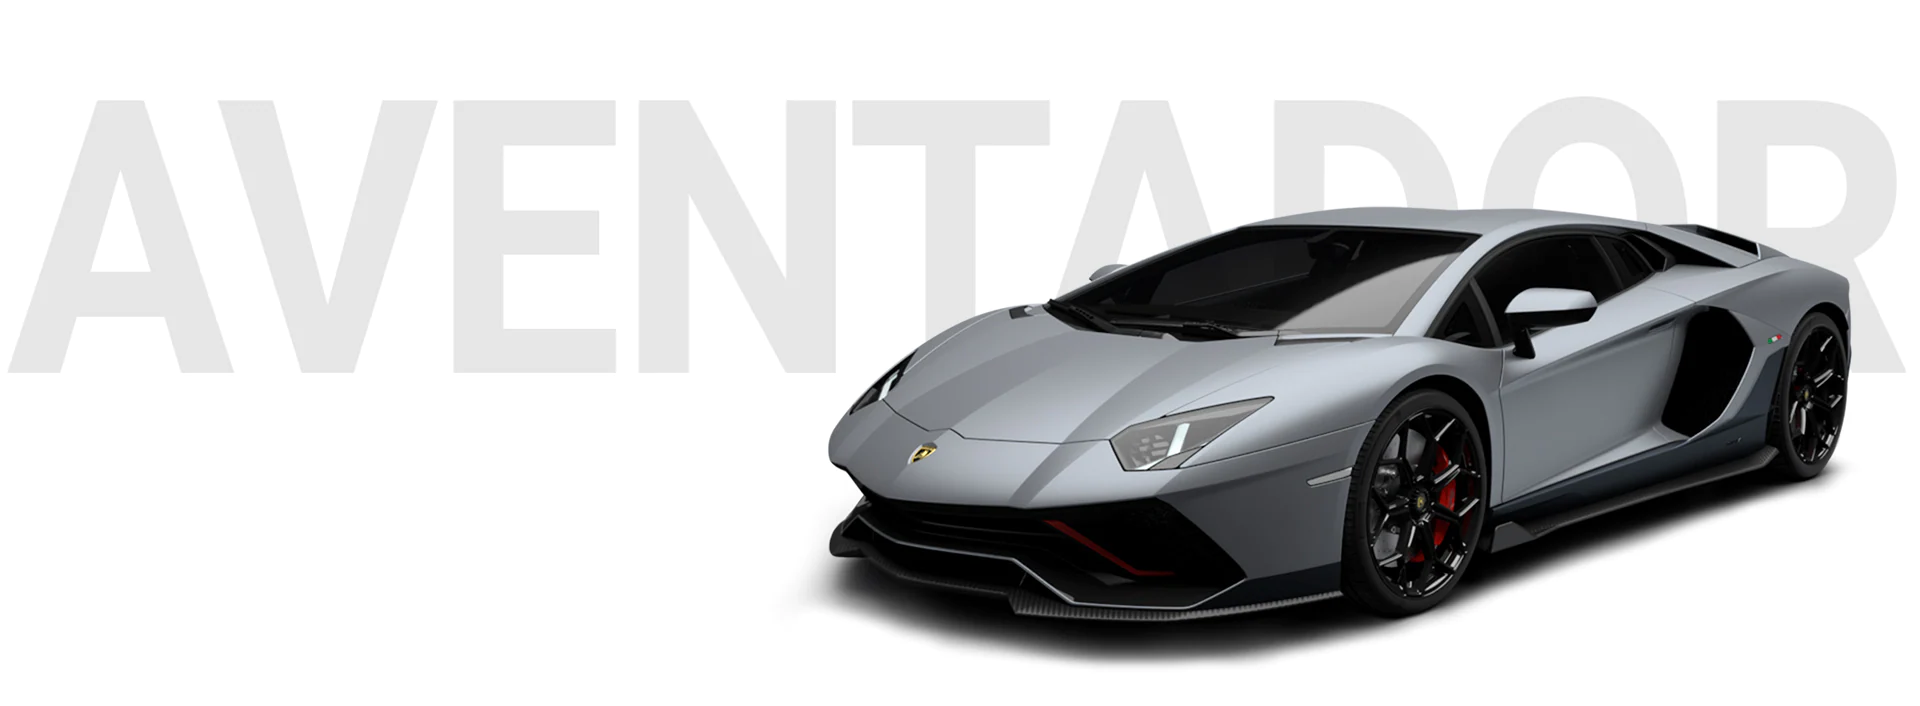
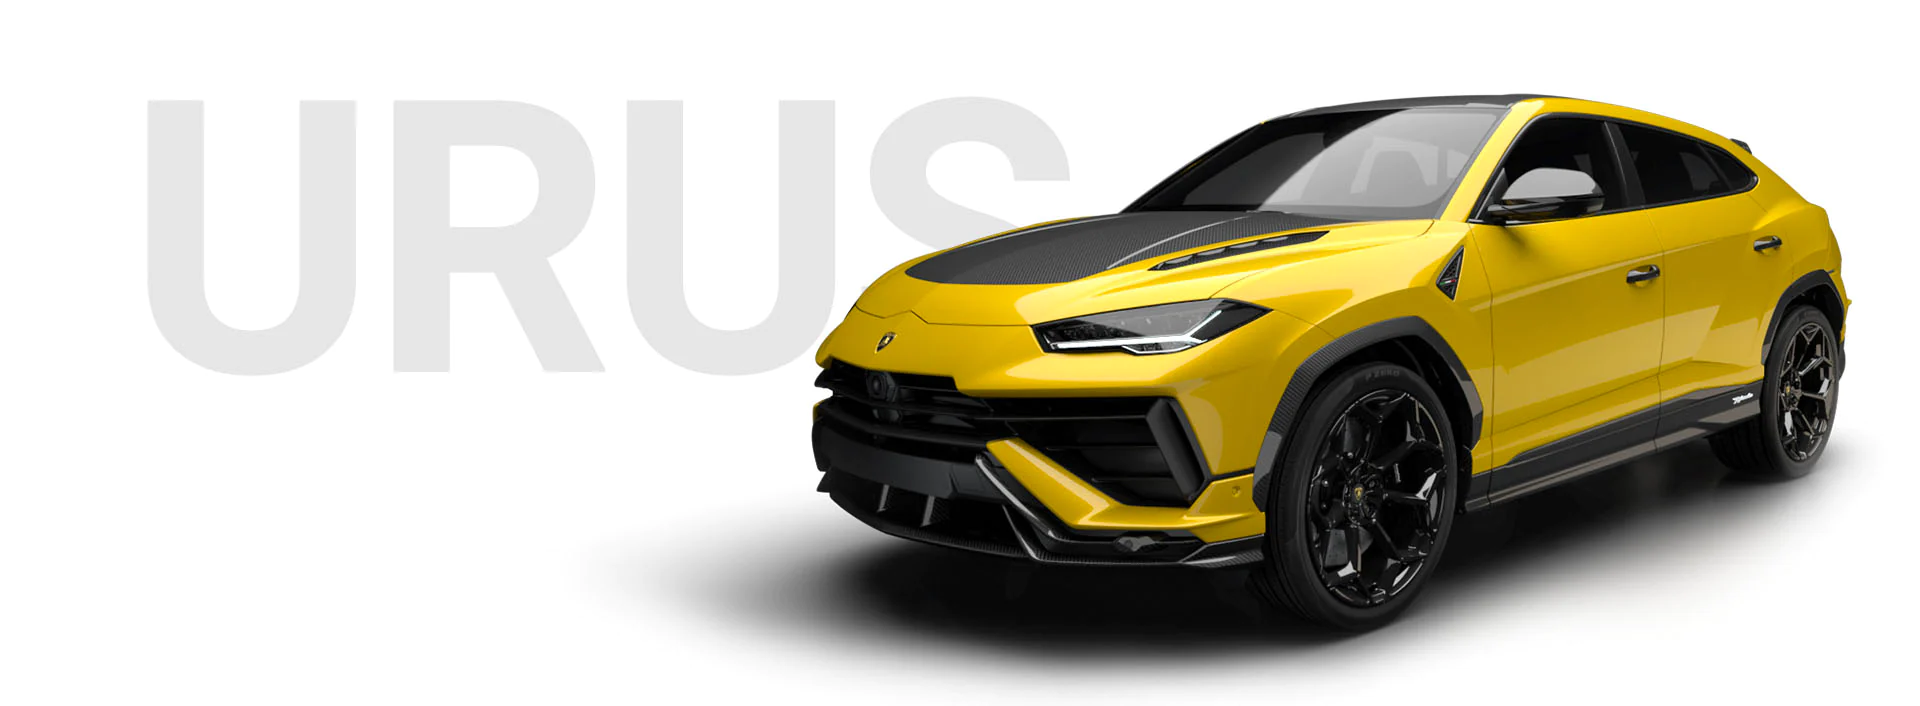
✅ Configurator finished

diff --git a/src/react/Layout/Configurator.jsx b/src/react/Layout/Configurator.jsx
@@ -2,28 +2,49 @@ import data from "../../data/dataHome";
 import {typewriterAnimation} from "../Utilities";
 import React from "react";
 import Button from "../components/Button";
+import Tabs from "../components/Tabs";
+import {useEffect, useState} from "react";
+
 
 export default function Configurator() {
+	const [activeTab, setActiveTab] = useState(0);
+
+	const surfaceStyles = {
+		"backgroundImage": `url(/media/home/image-tab-${activeTab + 1}.webp)`,
+		"backgroundPosition": "center",
+		"backgroundSize": "contain",
+		"backgroundRepeat": "no-repeat",
+		"transition": "background-image 200ms ease-out"
+	}
+
+	function handleTabClick(index) {
+		setActiveTab(index);
+	}
+
+	function renderContent(data) {
+		return data.map((item, i) => {
+			if (activeTab === i) {
+				return <div className="animation-title-reveal animation-btn-reveal">
+					<h2 className="title-2 f-weight-4">
+						<span className="subtitle-3">{typewriterAnimation('configurator', 40, 0)}</span>
+						<span className="title">create your</span>
+						<span className="title">{item.content}</span>
+					</h2>
+					<Button href="/" class="btn-hexagon" size="5.5" type="hexa-arrow-right" srOnly="click to go aventador page"/>
+				</div>
+			}
+		})
+	}
+
 	return (
-		<section>
+		<section className="none[screen-md]" style={surfaceStyles}>
 			<div className="container">
 				<div className="stack space-4">
 					<div className="wrap">
-						<div className="animation-title-reveal animation-btn-reveal">
-							<h2 className="title-2 f-weight-4">
-								<span className="subtitle-3">{typewriterAnimation('configurator', 60, 50)}</span>
-								<span className="title">create your</span>
-								<span className="title">huracán</span>
-							</h2>
-							<Button href="/" class="btn-hexagon" size="5.5" type="hexa-arrow-right" srOnly="click to go aventador page"/>
-						</div>
+						{renderContent(data.configTabs)}
 					</div>
 					<div className="wrap">
-						<div className="tabs">
-							<button className="tabs__tab" data-active={true}>Aventador</button>
-							<button className="tabs__tab">Huracán</button>
-							<button className="tabs__tab">Urus</button>
-						</div>
+						<Tabs data={data.configTabs} activeIndex={activeTab} handleTabClick={handleTabClick}/>
 					</div>
 				</div>
 			</div>

diff --git a/src/sass/base/_animations.scss b/src/sass/base/_animations.scss
@@ -1,6 +1,6 @@
 
 :where(.animation-title-reveal, .animation-btn-reveal) {
-	--animation-duration : 500ms;
+	--animation-duration : 400ms;
 	--animation-ease     : ease-out;
 	--animation-delay    : 200ms;
 }
@@ -22,8 +22,10 @@
 
 .animation-btn-reveal {
 	& > [class^="btn-"] {
-		animation : fade-in var(--animation-duration) var(--animation-ease) backwards calc(var(--animation-delay) + var(--animation-duration)),
-		scale-in var(--animation-duration) var(--animation-ease) backwards calc(var(--animation-delay) + var(--animation-duration));
+		--animation-delay    : 900ms;
+
+		animation : fade-in var(--animation-duration) var(--animation-ease) backwards var(--animation-delay),
+		scale-in var(--animation-duration) var(--animation-ease) backwards var(--animation-delay);
 	}
 }
 

diff --git a/src/react/components/Tabs.jsx b/src/react/components/Tabs.jsx
@@ -1,9 +1,23 @@
-export default function Tabs(props) {
+import {useEffect, useState} from "react";
 
-	return (<div className="tabs">
-			{props.data.map((item, index) => {
-				<button className="tabs__tab" data-active={item.active}>{item.content}</button>
-			})}
-		</div>);
+export default function Tabs(props) {
+	const [activeTab, setActiveTab] = useState(0);
+
+	useEffect(() => {
+		setActiveTab(props.activeIndex);
+	}, []);
+
+	function handleTabClick(index) {
+		setActiveTab(index);
+		props.handleTabClick(index);
+	}
+
+	return (
+		<div className="tabs">
+			{props.data.map((tab, index) => (
+				<button className="tabs__tab" key={tab.key} data-active={index === activeTab} onClick={() => handleTabClick(index)}>{tab.content}</button>
+			))}
+		</div>
+	);
 }
 

diff --git a/src/data/dataHome.js b/src/data/dataHome.js
@@ -96,4 +96,18 @@ export default {
 			btnContent2: "open car configurator"
 		},
 	],
+	configTabs: [
+		{
+			key: "01",
+			content: "aventador",
+		},
+		{
+			key: "02",
+			content: "huracán",
+		},
+		{
+			key: "03",
+			content: "urus",
+		}
+	],
 }

diff --git a/src/sass/base/_utilities.scss b/src/sass/base/_utilities.scss
@@ -33,6 +33,12 @@
 	--space : 4rem;
 }
 
+.none\[screen-md\] {
+	@include breakpoint(max, em(1025px)) {
+		display : none;
+	}
+}
+
 .sr-only {
 	position    : absolute;
 	overflow    : hidden;
